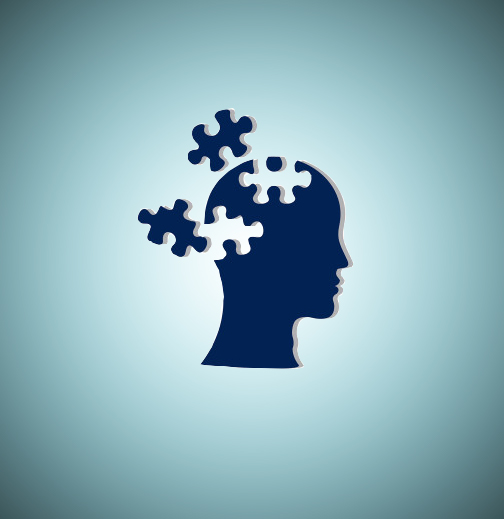
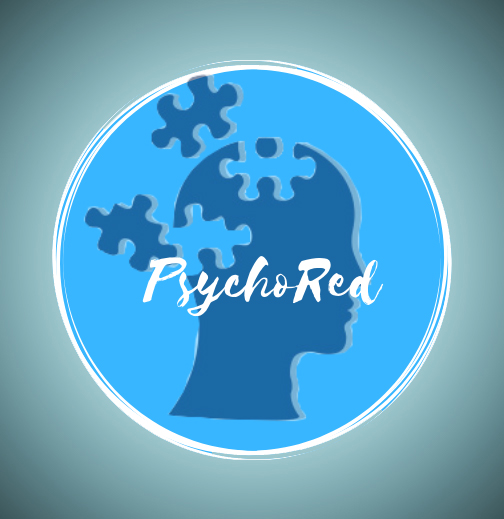
V.4.4

diff --git a/src/frames/login.java b/src/frames/login.java
@@ -21,8 +21,12 @@ import javax.swing.JOptionPane;
 import javax.swing.UIManager;
 import java.text.ParseException;
 import com.alee.global.GlobalConstants;
+import java.awt.Image;
 import java.awt.event.KeyEvent;
+import java.io.File;
+import java.io.IOException;
 import java.util.Random;
+import javax.imageio.ImageIO;
 import javax.mail.NoSuchProviderException;
 import javax.swing.UnsupportedLookAndFeelException;
 
@@ -39,7 +43,14 @@ public class login extends javax.swing.JFrame {
     public login() {
         //adsdsa
         initComponents();
-        setIconImage (new ImageIcon(getClass().getResource("../imagenes/pnj.png")).getImage());//cambiar imagen de icono
+           try {
+               Image img=ImageIO.read(new File("psychored.png"));
+               this.setIconImage(img);
+           } catch (IOException ex) {
+               Logger.getLogger(login.class.getName()).log(Level.SEVERE, null, ex);
+           }
+        
+        this.setTitle("PSYCHORED");
     }
 
     /** This method is called from within the constructor to
@@ -61,9 +72,12 @@ public class login extends javax.swing.JFrame {
         jLabel1 = new javax.swing.JLabel();
         jLabel6 = new javax.swing.JLabel();
         jButton2 = new javax.swing.JButton();
+        jButton3 = new javax.swing.JButton();
+        jButton4 = new javax.swing.JButton();
         jLabel7 = new javax.swing.JLabel();
 
         setDefaultCloseOperation(javax.swing.WindowConstants.EXIT_ON_CLOSE);
+        setLocationByPlatform(true);
         setResizable(false);
 
         jPanel1.setBackground(new java.awt.Color(255, 255, 255));
@@ -133,6 +147,24 @@ public class login extends javax.swing.JFrame {
             }
         });
         jPanel1.add(jButton2, new org.netbeans.lib.awtextra.AbsoluteConstraints(170, 280, 230, 30));
+
+        jButton3.setIcon(new javax.swing.ImageIcon(getClass().getResource("/iconos/cancel-button.png"))); // NOI18N
+        jButton3.setContentAreaFilled(false);
+        jButton3.addActionListener(new java.awt.event.ActionListener() {
+            public void actionPerformed(java.awt.event.ActionEvent evt) {
+                jButton3ActionPerformed(evt);
+            }
+        });
+        jPanel1.add(jButton3, new org.netbeans.lib.awtextra.AbsoluteConstraints(410, 180, 80, 30));
+
+        jButton4.setIcon(new javax.swing.ImageIcon(getClass().getResource("/iconos/cancel-button.png"))); // NOI18N
+        jButton4.setContentAreaFilled(false);
+        jButton4.addActionListener(new java.awt.event.ActionListener() {
+            public void actionPerformed(java.awt.event.ActionEvent evt) {
+                jButton4ActionPerformed(evt);
+            }
+        });
+        jPanel1.add(jButton4, new org.netbeans.lib.awtextra.AbsoluteConstraints(410, 230, 80, 30));
 
         jLabel7.setIcon(new javax.swing.ImageIcon(getClass().getResource("/imagenes/fondo login.jpg"))); // NOI18N
         jPanel1.add(jLabel7, new org.netbeans.lib.awtextra.AbsoluteConstraints(0, 0, 560, 570));
@@ -236,6 +268,16 @@ public class login extends javax.swing.JFrame {
             JOptionPane.showMessageDialog(null,"No puede ingresar Numeros!!!","Ventana Error Datos",JOptionPane.ERROR_MESSAGE); }
     }//GEN-LAST:event_jTextField1KeyTyped
 
+    private void jButton3ActionPerformed(java.awt.event.ActionEvent evt) {//GEN-FIRST:event_jButton3ActionPerformed
+        // TODO add your handling code here:
+        jTextField1.setText("");
+    }//GEN-LAST:event_jButton3ActionPerformed
+
+    private void jButton4ActionPerformed(java.awt.event.ActionEvent evt) {//GEN-FIRST:event_jButton4ActionPerformed
+        // TODO add your handling code here:
+       jPasswordField1.setText("");
+    }//GEN-LAST:event_jButton4ActionPerformed
+
     /**
      * @param args the command line arguments
      */
@@ -245,18 +287,22 @@ public class login extends javax.swing.JFrame {
         /* If Nimbus (introduced in Java SE 6) is not available, stay with the default look and feel.
          * For details see http://download.oracle.com/javase/tutorial/uiswing/lookandfeel/plaf.html 
          */
-        try {
-            
-  
-            UIManager.setLookAndFeel("com.alee.laf.WebLookAndFeel");
-
-        }  catch (ClassNotFoundException ex) {
-               Logger.getLogger(login.class.getName()).log(Level.SEVERE, null, ex);
-           } catch (InstantiationException ex) {
-               Logger.getLogger(login.class.getName()).log(Level.SEVERE, null, ex);
-           } catch (IllegalAccessException ex) {
-               Logger.getLogger(login.class.getName()).log(Level.SEVERE, null, ex);
-           }
+      try {
+            for (javax.swing.UIManager.LookAndFeelInfo info : javax.swing.UIManager.getInstalledLookAndFeels()) {
+                if ("windows".equals(info.getName())) {
+                    javax.swing.UIManager.setLookAndFeel(info.getClassName());
+                    break;
+                }
+            }
+        } catch (ClassNotFoundException ex) {
+            java.util.logging.Logger.getLogger(Recup.class.getName()).log(java.util.logging.Level.SEVERE, null, ex);
+        } catch (InstantiationException ex) {
+            java.util.logging.Logger.getLogger(Recup.class.getName()).log(java.util.logging.Level.SEVERE, null, ex);
+        } catch (IllegalAccessException ex) {
+            java.util.logging.Logger.getLogger(Recup.class.getName()).log(java.util.logging.Level.SEVERE, null, ex);
+        } catch (javax.swing.UnsupportedLookAndFeelException ex) {
+            java.util.logging.Logger.getLogger(Recup.class.getName()).log(java.util.logging.Level.SEVERE, null, ex);
+        }
            //</editor-fold>
 
            //</editor-fold>
@@ -316,6 +362,8 @@ public class login extends javax.swing.JFrame {
     // Variables declaration - do not modify//GEN-BEGIN:variables
     private javax.swing.JButton jButton1;
     private javax.swing.JButton jButton2;
+    private javax.swing.JButton jButton3;
+    private javax.swing.JButton jButton4;
     private javax.swing.JLabel jLabel1;
     private javax.swing.JLabel jLabel2;
     private javax.swing.JLabel jLabel4;

diff --git a/src/frames/mod_u.java b/src/frames/mod_u.java
@@ -6,6 +6,9 @@
 package frames;
 
 import bd.conected;
+import java.awt.Image;
+import java.io.File;
+import java.io.IOException;
 import java.sql.Connection;
 import java.sql.PreparedStatement;
 import java.sql.ResultSet;
@@ -13,6 +16,7 @@ import java.sql.SQLException;
 import java.sql.Statement;
 import java.util.logging.Level;
 import java.util.logging.Logger;
+import javax.imageio.ImageIO;
 import javax.swing.ImageIcon;
 import javax.swing.JOptionPane;
 
@@ -29,7 +33,13 @@ public class mod_u extends javax.swing.JFrame {
      */
     public mod_u() {
         initComponents();
-                        setIconImage (new ImageIcon(getClass().getResource("../imagenes/pnj.png")).getImage());//cambiar imagen de icono
+        try {
+               Image img=ImageIO.read(new File("psychored.png"));
+               this.setIconImage(img);
+           } catch (IOException ex) {
+               Logger.getLogger(login.class.getName()).log(Level.SEVERE, null, ex);
+           }
+        this.setTitle("PSYCHORED");
     }
 
     /**
@@ -355,7 +365,7 @@ public class mod_u extends javax.swing.JFrame {
         /* If Nimbus (introduced in Java SE 6) is not available, stay with the default look and feel.
          * For details see http://download.oracle.com/javase/tutorial/uiswing/lookandfeel/plaf.html 
          */
-        try {
+            try {
             for (javax.swing.UIManager.LookAndFeelInfo info : javax.swing.UIManager.getInstalledLookAndFeels()) {
                 if ("windows".equals(info.getName())) {
                     javax.swing.UIManager.setLookAndFeel(info.getClassName());
@@ -363,13 +373,13 @@ public class mod_u extends javax.swing.JFrame {
                 }
             }
         } catch (ClassNotFoundException ex) {
-            java.util.logging.Logger.getLogger(mod_u.class.getName()).log(java.util.logging.Level.SEVERE, null, ex);
+            java.util.logging.Logger.getLogger(Recup.class.getName()).log(java.util.logging.Level.SEVERE, null, ex);
         } catch (InstantiationException ex) {
-            java.util.logging.Logger.getLogger(mod_u.class.getName()).log(java.util.logging.Level.SEVERE, null, ex);
+            java.util.logging.Logger.getLogger(Recup.class.getName()).log(java.util.logging.Level.SEVERE, null, ex);
         } catch (IllegalAccessException ex) {
-            java.util.logging.Logger.getLogger(mod_u.class.getName()).log(java.util.logging.Level.SEVERE, null, ex);
+            java.util.logging.Logger.getLogger(Recup.class.getName()).log(java.util.logging.Level.SEVERE, null, ex);
         } catch (javax.swing.UnsupportedLookAndFeelException ex) {
-            java.util.logging.Logger.getLogger(mod_u.class.getName()).log(java.util.logging.Level.SEVERE, null, ex);
+            java.util.logging.Logger.getLogger(Recup.class.getName()).log(java.util.logging.Level.SEVERE, null, ex);
         }
         //</editor-fold>
 

diff --git a/src/frames/edit.java b/src/frames/edit.java
@@ -8,6 +8,9 @@ package frames;
 import bd.conected;
 import clases.pdf;
 import java.awt.HeadlessException;
+import java.awt.Image;
+import java.io.File;
+import java.io.IOException;
 import java.sql.Connection;
 import java.sql.PreparedStatement;
 import java.sql.ResultSet;
@@ -15,6 +18,7 @@ import java.sql.SQLException;
 import java.sql.Statement;
 import java.util.logging.Level;
 import java.util.logging.Logger;
+import javax.imageio.ImageIO;
 import javax.swing.ImageIcon;
 import javax.swing.JOptionPane;
 
@@ -35,7 +39,13 @@ int id3;
 
     public edit() throws HeadlessException {
         initComponents();
-                setIconImage (new ImageIcon(getClass().getResource("../imagenes/pnj.png")).getImage());//cambiar imagen de icono
+                               try {
+               Image img=ImageIO.read(new File("psychored.png"));
+               this.setIconImage(img);
+           } catch (IOException ex) {
+               Logger.getLogger(login.class.getName()).log(Level.SEVERE, null, ex);
+           }
+        this.setTitle("PSYCHORED");
     }
 
     public edit(int id2) throws SQLException {
@@ -272,7 +282,7 @@ int id3;
                 jButton1ActionPerformed(evt);
             }
         });
-        jPanel1.add(jButton1, new org.netbeans.lib.awtextra.AbsoluteConstraints(50, 200, 80, 40));
+        jPanel1.add(jButton1, new org.netbeans.lib.awtextra.AbsoluteConstraints(160, 200, 80, 40));
 
         jLabel1.setIcon(new javax.swing.ImageIcon(getClass().getResource("/imagenes/fondo edit.jpg"))); // NOI18N
         jPanel1.add(jLabel1, new org.netbeans.lib.awtextra.AbsoluteConstraints(0, 0, 740, 780));

diff --git a/src/frames/Recup.java b/src/frames/Recup.java
@@ -8,12 +8,16 @@ package frames;
 import bd.conected;
 import clases.Sesion;
 import java.awt.HeadlessException;
+import java.awt.Image;
+import java.io.File;
+import java.io.IOException;
 import java.sql.Connection;
 import java.sql.ResultSet;
 import java.sql.SQLException;
 import java.sql.Statement;
 import java.util.logging.Level;
 import java.util.logging.Logger;
+import javax.imageio.ImageIO;
 import javax.mail.NoSuchProviderException;
 import javax.swing.ImageIcon;
 import javax.swing.JOptionPane;
@@ -32,7 +36,13 @@ public class Recup extends javax.swing.JFrame {
      */
     public Recup()  throws HeadlessException  {
         initComponents();
-        setIconImage (new ImageIcon(getClass().getResource("../imagenes/pnj.png")).getImage());//cambiar imagen de icono
+        try {
+               Image img=ImageIO.read(new File("psychored.png"));
+               this.setIconImage(img);
+           } catch (IOException ex) {
+               Logger.getLogger(login.class.getName()).log(Level.SEVERE, null, ex);
+           }
+        this.setTitle("PSYCHORED");
     }
     public Recup(int numero1,String correo1){
     initComponents();

diff --git a/src/frames/estudiantes_seguimiento.java b/src/frames/estudiantes_seguimiento.java
@@ -9,6 +9,8 @@ import bd.conected;
 import clases.Sesion;
 import clases.pdf;
 import com.itextpdf.text.DocumentException;
+import java.awt.Image;
+import java.io.File;
 import java.io.IOException;
 import java.sql.Connection;
 import java.sql.PreparedStatement;
@@ -17,6 +19,7 @@ import java.sql.SQLException;
 import java.sql.Statement;
 import java.util.logging.Level;
 import java.util.logging.Logger;
+import javax.imageio.ImageIO;
 import javax.mail.NoSuchProviderException;
 import javax.swing.ImageIcon;
 import javax.swing.JOptionPane;
@@ -41,8 +44,13 @@ public class estudiantes_seguimiento extends javax.swing.JFrame {
        
         initComponents();
         showdatos();
-                setIconImage (new ImageIcon(getClass().getResource("../imagenes/pnj.png")).getImage());//cambiar imagen de icono
-
+        try {
+               Image img=ImageIO.read(new File("psychored.png"));
+               this.setIconImage(img);
+           } catch (IOException ex) {
+               Logger.getLogger(login.class.getName()).log(Level.SEVERE, null, ex);
+           }
+        this.setTitle("PSYCHORED");
     }
 
     /**
